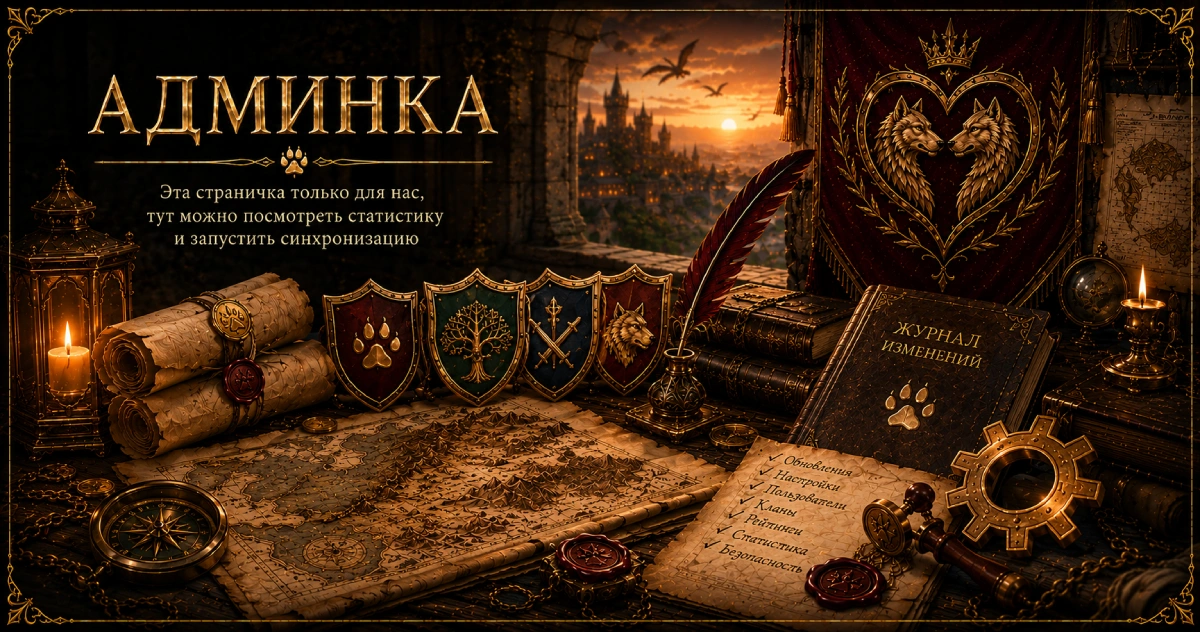
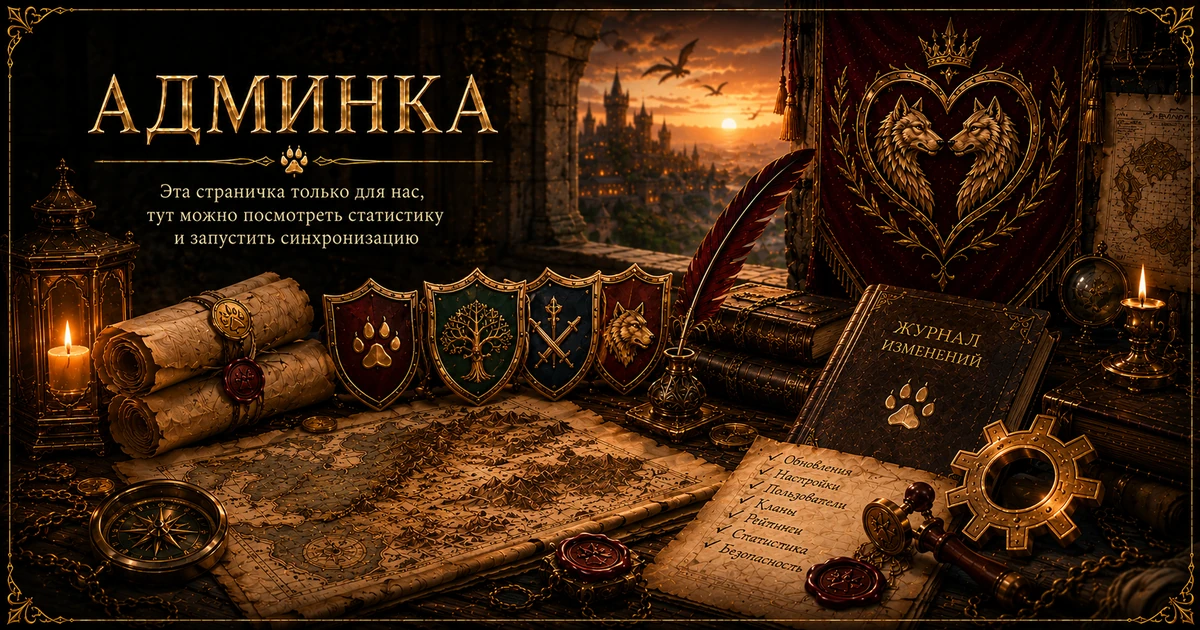
Add files via upload

diff --git a/src/app/couples/CouplesClient.tsx b/src/app/couples/CouplesClient.tsx
@@ -1,13 +1,214 @@
 "use client";
-import { useMemo, useState } from "react";
+
+import Image from "next/image";
 import Link from "next/link";
+import { useMemo, useState } from "react";
 import styles from "../collection-pages.module.css";
-type Player={cuid:string;nick:string;level?:number;clanId?:string;clanName?:string;profileUrl?:string;marriagePartner?:string;marriageSince?:string};
-type Couple={a:Player;b?:Player;partnerName:string;since:string};
-export default function CouplesClient({players,smileCounts,itemCounts}:{players:Player[];smileCounts:Record<string,number>;itemCounts:Record<string,number>}){
- const [query,setQuery]=useState(""); const [sort,setSort]=useState<"date"|"names">("date");
- const couples=useMemo(()=>{const byName=new Map(players.map(p=>[p.nick.toLocaleLowerCase("ru"),p]));const used=new Set<string>();const list:Couple[]=[];for(const p of players){const partner=(p.marriagePartner||"").trim();if(!partner)continue;const other=byName.get(partner.toLocaleLowerCase("ru"));const key=[p.nick.toLocaleLowerCase("ru"),partner.toLocaleLowerCase("ru")].sort().join("|");if(used.has(key))continue;used.add(key);list.push({a:p,b:other,partnerName:other?.nick||partner,since:p.marriageSince||other?.marriageSince||""});}const q=query.trim().toLocaleLowerCase("ru");return list.filter(c=>!q||c.a.nick.toLocaleLowerCase("ru").includes(q)||c.partnerName.toLocaleLowerCase("ru").includes(q)).sort((x,y)=>sort==="names"?x.a.nick.localeCompare(y.a.nick,"ru"):(parseDate(x.since)-parseDate(y.since))||x.a.nick.localeCompare(y.a.nick,"ru"));},[players,query,sort]);
- return <main className={styles.page}><section className={styles.shell}><header className={styles.hero}><div className={styles.heroIcon}>💍</div><div><p className={styles.eyebrow}>Истории, которые начались в игре</p><h1>Семейные пары</h1><p>Кто с кем, с какой даты и какие коллекции успела собрать каждая пара.</p></div></header><div className={styles.stats}><span><b>{couples.length}</b> семейных пар</span><span>Данные берём прямо из профилей персонажей</span></div><div className={styles.controls}><input value={query} onChange={e=>setQuery(e.target.value)} placeholder="Найти кого-нибудь из пары…"/><div><button className={sort==="date"?styles.active:""} onClick={()=>setSort("date")}>Дольше вместе</button><button className={sort==="names"?styles.active:""} onClick={()=>setSort("names")}>По именам</button></div></div><div className={styles.coupleGrid}>{couples.map(c=><article className={styles.couple} key={`${c.a.nick}-${c.partnerName}`}><div className={styles.heart}>♥</div><div className={styles.people}><Person p={c.a} smiles={smileCounts[c.a.nick.toLocaleLowerCase("ru")]||0} items={itemCounts[c.a.nick.toLocaleLowerCase("ru")]||0}/><span className={styles.plus}>и</span><Person p={c.b||{cuid:"",nick:c.partnerName}} smiles={smileCounts[c.partnerName.toLocaleLowerCase("ru")]||0} items={itemCounts[c.partnerName.toLocaleLowerCase("ru")]||0}/></div><p className={styles.since}>{c.since?`Вместе с ${c.since}`:"Дата свадьбы пока не найдена"}</p></article>)}</div>{!couples.length&&<div className={styles.empty}>Семейные пары пока не найдены.</div>}</section></main>;
+
+type Player = {
+  cuid: string;
+  nick: string;
+  level?: number;
+  clanId?: string;
+  clanName?: string;
+  profileUrl?: string;
+  marriagePartner?: string;
+  marriageSince?: string;
+};
+
+type Couple = { a: Player; b?: Player; partnerName: string; since: string };
+
+export default function CouplesClient({
+  players,
+  smileCounts,
+  itemCounts,
+}: {
+  players: Player[];
+  smileCounts: Record<string, number>;
+  itemCounts: Record<string, number>;
+}) {
+  const [query, setQuery] = useState("");
+  const [sort, setSort] = useState<"date" | "names">("date");
+
+  const couples = useMemo(() => {
+    const byName = new Map(
+      players.map((player) => [player.nick.toLocaleLowerCase("ru"), player]),
+    );
+    const used = new Set<string>();
+    const list: Couple[] = [];
+
+    for (const player of players) {
+      const partner = (player.marriagePartner || "").trim();
+      if (!partner) continue;
+
+      const other = byName.get(partner.toLocaleLowerCase("ru"));
+      const key = [
+        player.nick.toLocaleLowerCase("ru"),
+        partner.toLocaleLowerCase("ru"),
+      ]
+        .sort()
+        .join("|");
+
+      if (used.has(key)) continue;
+      used.add(key);
+
+      list.push({
+        a: player,
+        b: other,
+        partnerName: other?.nick || partner,
+        since: player.marriageSince || other?.marriageSince || "",
+      });
+    }
+
+    const normalizedQuery = query.trim().toLocaleLowerCase("ru");
+
+    return list
+      .filter(
+        (couple) =>
+          !normalizedQuery ||
+          couple.a.nick.toLocaleLowerCase("ru").includes(normalizedQuery) ||
+          couple.partnerName.toLocaleLowerCase("ru").includes(normalizedQuery),
+      )
+      .sort((left, right) =>
+        sort === "names"
+          ? left.a.nick.localeCompare(right.a.nick, "ru")
+          : parseDate(left.since) - parseDate(right.since) ||
+            left.a.nick.localeCompare(right.a.nick, "ru"),
+      );
+  }, [players, query, sort]);
+
+  return (
+    <main className={styles.page}>
+      <section className={styles.shell}>
+        <header className={styles.hero}>
+          <div className={`${styles.heroIcon} ${styles.ringsIcon}`}>
+            <Image
+              src="/ui/couple-rings.svg"
+              width={76}
+              height={76}
+              alt="Два золотых обручальных кольца"
+              priority
+            />
+          </div>
+          <div>
+            <p className={styles.eyebrow}>Страничка про любовь :) ♥</p>
+            <h1>Семейные пары</h1>
+            <p>
+              Помните: счастье к свидетельству о браке не прилагается: всё
+              зависит только от вас :)
+            </p>
+          </div>
+        </header>
+
+        <div className={styles.stats}>
+          <span>
+            Семейных пар: <b>{couples.length}</b>
+          </span>
+        </div>
+
+        <div className={styles.controls}>
+          <input
+            value={query}
+            onChange={(event) => setQuery(event.target.value)}
+            placeholder="Найти кого-нибудь из пары…"
+          />
+          <div>
+            <button
+              className={sort === "date" ? styles.active : ""}
+              onClick={() => setSort("date")}
+            >
+              Дольше вместе
+            </button>
+            <button
+              className={sort === "names" ? styles.active : ""}
+              onClick={() => setSort("names")}
+            >
+              По именам
+            </button>
+          </div>
+        </div>
+
+        <div className={styles.coupleGrid}>
+          {couples.map((couple) => (
+            <article
+              className={styles.couple}
+              key={`${couple.a.nick}-${couple.partnerName}`}
+            >
+              <div className={styles.heart}>♥</div>
+              <div className={styles.people}>
+                <Person
+                  player={couple.a}
+                  smiles={
+                    smileCounts[couple.a.nick.toLocaleLowerCase("ru")] || 0
+                  }
+                  items={itemCounts[couple.a.nick.toLocaleLowerCase("ru")] || 0}
+                />
+                <span className={styles.plus}>♥</span>
+                <Person
+                  player={couple.b || { cuid: "", nick: couple.partnerName }}
+                  smiles={
+                    smileCounts[couple.partnerName.toLocaleLowerCase("ru")] || 0
+                  }
+                  items={
+                    itemCounts[couple.partnerName.toLocaleLowerCase("ru")] || 0
+                  }
+                />
+              </div>
+              <p className={styles.since}>
+                {couple.since
+                  ? `Вместе с ${couple.since}`
+                  : "Дата свадьбы пока не найдена"}
+              </p>
+            </article>
+          ))}
+        </div>
+
+        {!couples.length && (
+          <div className={styles.empty}>Семейные пары пока не найдены.</div>
+        )}
+      </section>
+    </main>
+  );
 }
-function parseDate(value:string){const m=value.match(/(\d{2})\.(\d{2})\.(\d{4})/);return m?new Date(+m[3],+m[2]-1,+m[1]).getTime():Number.MAX_SAFE_INTEGER;}
-function Person({p,smiles,items}:{p:Player;smiles:number;items:number}){return <div className={styles.person}><div className={styles.avatar}>{p.nick.charAt(0).toUpperCase()}</div><div><h2>{p.profileUrl?<a href={p.profileUrl} target="_blank" rel="noreferrer">{p.nick}</a>:p.nick} {p.level?<small>[{p.level}]</small>:null}</h2><p>{p.clanName||"Без клана"}</p><div className={styles.badges}><span>😊 {smiles}</span><Link href={`/personal-items?owner=${encodeURIComponent(p.nick)}`}>⚔ {items}</Link></div></div></div>}
+
+function parseDate(value: string) {
+  const match = value.match(/(\d{2})\.(\d{2})\.(\d{4})/);
+  return match
+    ? new Date(+match[3], +match[2] - 1, +match[1]).getTime()
+    : Number.MAX_SAFE_INTEGER;
+}
+
+function Person({
+  player,
+  smiles,
+  items,
+}: {
+  player: Player;
+  smiles: number;
+  items: number;
+}) {
+  return (
+    <div className={styles.person}>
+      <div className={styles.avatar}>{player.nick.charAt(0).toUpperCase()}</div>
+      <div className={styles.personBody}>
+        <h2>
+          {player.profileUrl ? (
+            <a href={player.profileUrl} target="_blank" rel="noreferrer">
+              {player.nick}
+            </a>
+          ) : (
+            player.nick
+          )}{" "}
+          {player.level ? <small>[{player.level}]</small> : null}
+        </h2>
+        <p>{player.clanName || "Без клана"}</p>
+        <div className={styles.badges}>
+          <span>😊 {smiles}</span>
+          <Link href={`/personal-items?owner=${encodeURIComponent(player.nick)}`}>
+            ⚔ {items}
+          </Link>
+        </div>
+      </div>
+    </div>
+  );
+}

diff --git a/src/app/collection-pages.module.css b/src/app/collection-pages.module.css
@@ -2,3 +2,4 @@
 .shell{width:min(1090px,100%);margin:auto;padding:28px;border:1px solid rgba(173,113,34,.38);border-radius:16px;background:rgba(5,7,7,.97)}
 .hero{display:flex;align-items:center;gap:22px;padding:24px;border:1px solid rgba(173,113,34,.48);border-radius:14px;background:radial-gradient(circle at 20% 30%,rgba(115,65,22,.28),transparent 42%),#080a09}.heroIcon{display:grid;width:92px;height:92px;flex:0 0 92px;place-items:center;border:1px solid rgba(205,144,55,.55);border-radius:50%;font-size:48px;background:#0c0d0c;box-shadow:0 0 28px rgba(177,112,27,.15)}.eyebrow,.mini{margin:0;color:#a98249;font-size:.7rem;font-weight:700;letter-spacing:.17em;text-transform:uppercase}.hero h1{margin:4px 0;color:#ecd4a6;font:400 clamp(2rem,5vw,3.4rem) Georgia,serif}.hero p:last-child{margin:0;color:#bda888}.stats{display:flex;flex-wrap:wrap;gap:12px;margin:18px 0}.stats span{padding:9px 13px;border:1px solid rgba(173,113,34,.32);border-radius:999px;color:#bda888;background:#090c0b}.stats b{color:#efd09a}.controls{display:flex;align-items:center;justify-content:space-between;gap:14px;margin:20px 0}.controls input{width:min(480px,100%);padding:12px 15px;border:1px solid rgba(173,113,34,.45);border-radius:10px;color:#ecd4a6;background:#080a09;outline:none}.controls>div{display:flex;gap:7px}.controls button{padding:9px 12px;border:1px solid rgba(173,113,34,.4);border-radius:999px;color:#bda888;background:#090c0b;cursor:pointer}.controls button.active,.controls button:hover{color:#f0d09a;border-color:#d69938;background:rgba(106,61,18,.28)}.groups{display:grid;gap:18px}.group,.couple{overflow:hidden;border:1px solid rgba(173,113,34,.4);border-radius:13px;background:#080b0a}.groupHead{display:flex;align-items:center;justify-content:space-between;gap:15px;padding:18px 20px;border-bottom:1px solid rgba(173,113,34,.28);background:linear-gradient(180deg,rgba(75,44,18,.2),transparent)}.groupHead h2{margin:5px 0 2px;color:#ecd4a6;font:400 1.7rem Georgia,serif}.groupHead h2 a,.person h2 a{color:inherit;text-decoration:none}.groupHead small,.person small{color:#a88c66;font-size:.65em}.groupHead p:last-child,.person p{margin:0;color:#9f8a6b}.groupHead>strong{color:#dda64d}.itemGrid{display:grid;grid-template-columns:repeat(5,minmax(0,1fr));gap:10px;padding:16px}.itemCard{display:flex;min-width:0;min-height:150px;padding:12px;align-items:center;flex-direction:column;justify-content:center;gap:10px;border:1px solid rgba(173,113,34,.25);border-radius:10px;color:#dfc38f;background:linear-gradient(145deg,#111310,#070908);text-align:center;text-decoration:none}.itemCard:hover{border-color:#d4993b;transform:translateY(-2px)}.itemCard img{width:86px;height:86px;object-fit:contain;image-rendering:auto}.itemFallback{font-size:45px}.itemCard span:last-child{font:400 .95rem/1.25 Georgia,serif}.coupleGrid{display:grid;grid-template-columns:repeat(2,minmax(0,1fr));gap:15px}.couple{position:relative;padding:20px}.heart{position:absolute;right:16px;top:10px;color:#8d2932;font-size:42px;opacity:.6}.people{display:grid;gap:15px}.plus{color:#a98249;font:italic 1.1rem Georgia,serif;text-align:center}.person{display:flex;align-items:center;gap:13px}.avatar{display:grid;width:52px;height:52px;flex:0 0 52px;place-items:center;border:1px solid rgba(205,144,55,.45);border-radius:50%;color:#e8c581;background:#11100d;font:700 1.3rem Georgia,serif}.person h2{margin:0 0 3px;color:#ecd4a6;font:400 1.3rem Georgia,serif}.badges{display:flex;gap:7px;margin-top:7px}.badges span,.badges a{padding:4px 8px;border:1px solid rgba(173,113,34,.3);border-radius:999px;color:#bfa57b;background:#0b0e0d;font-size:.76rem;text-decoration:none}.since{margin:18px 0 0;padding-top:13px;border-top:1px solid rgba(173,113,34,.25);color:#d6b67e;text-align:center}.empty{padding:50px 18px;border:1px solid rgba(173,113,34,.3);border-radius:13px;color:#a69273;text-align:center}.updated{color:#8e7b61;font-size:.78rem;text-align:center}
 @media(max-width:760px){.page{padding:0 0 40px}.shell{padding:10px 9px 25px;border:0;border-radius:0}.hero{padding:18px 12px;align-items:flex-start}.heroIcon{width:58px;height:58px;flex-basis:58px;font-size:30px}.hero h1{font-size:1.75rem}.hero p:last-child{font-size:.86rem}.controls{align-items:stretch;flex-direction:column}.controls>div{flex-wrap:wrap}.controls button{font-size:.75rem}.itemGrid{grid-template-columns:repeat(2,minmax(0,1fr));gap:7px;padding:9px}.itemCard{min-height:130px;padding:8px}.itemCard img{width:70px;height:70px}.groupHead{align-items:flex-start;padding:14px;flex-direction:column}.coupleGrid{grid-template-columns:1fr}.stats{gap:7px}.stats span{font-size:.75rem}}
+.ringsIcon{overflow:hidden}.ringsIcon img{width:76px;height:76px;object-fit:contain}.personBody{min-width:0}.person h2{overflow-wrap:anywhere}.plus{font-size:1.45rem;color:#b88436}

diff --git a/src/app/personal-items/PersonalItemsClient.tsx b/src/app/personal-items/PersonalItemsClient.tsx
@@ -23,8 +23,8 @@ export default function PersonalItemsClient({ data, directory }: { data: { updat
   }, [data.items, query, sort]);
   return <main className={styles.page}>
     <section className={styles.shell}>
-      <header className={styles.hero}><div className={styles.heroIcon}>⚔</div><div><p className={styles.eyebrow}>Уникальные сокровища Древнего Мира</p><h1>Именные вещи</h1><p>Все персональные предметы собраны не по страницам библиотеки, а по их владельцам.</p></div></header>
-      <div className={styles.stats}><span><b>{data.items.length}</b> вещей</span><span><b>{groups.length}</b> владельцев</span><span>Стоимость не показываем — она давно неактуальна</span></div>
+      <header className={styles.hero}><div className={styles.heroIcon}>⚔</div><div><p className={styles.eyebrow}>Уникальные картинки</p><h1>Именные вещи</h1><p>На этой страничке можно увидеть все персональные изображения на оружие и амуницию, что есть в игре.</p></div></header>
+      <div className={styles.stats}><span><b>{data.items.length}</b> вещей</span><span><b>{groups.length}</b> владельцев</span></div>
       <div className={styles.controls}><input value={query} onChange={(e)=>setQuery(e.target.value)} placeholder="Найти персонажа или вещь…"/><div><button className={sort==="count"?styles.active:""} onClick={()=>setSort("count")}>По количеству</button><button className={sort==="owner"?styles.active:""} onClick={()=>setSort("owner")}>По нику</button></div></div>
       {groups.length ? <div className={styles.groups}>{groups.map(([owner, items]) => { const p=directory[owner.toLocaleLowerCase("ru")]; return <article className={styles.group} key={owner} id={`owner-${encodeURIComponent(owner)}`}><div className={styles.groupHead}><div><p className={styles.mini}>Владелец коллекции</p><h2>{p?.profileUrl?<a href={p.profileUrl} target="_blank" rel="noreferrer">{owner}</a>:owner} <small>[{p?.level ?? items[0]?.ownerLevel ?? "?"}]</small></h2><p>{p?.clanName || "Без клана"}</p></div><strong>{items.length} {items.length===1?"вещь":"вещей"}</strong></div><div className={styles.itemGrid}>{items.map(item=><a className={styles.itemCard} href={item.itemUrl} target="_blank" rel="noreferrer" key={item.id}>{item.imageUrl?<img src={item.imageUrl} alt="" loading="lazy"/>:<span className={styles.itemFallback}>⚔</span>}<span>{item.name}</span></a>)}</div></article>})}</div>:<div className={styles.empty}>Именные вещи пока не загружены. После следующей синхронизации здесь появятся коллекции.</div>}
       {data.updatedAt && <p className={styles.updated}>Обновлено: {new Date(data.updatedAt).toLocaleString("ru-RU")}</p>}

diff --git a/src/app/links/page.tsx b/src/app/links/page.tsx
@@ -25,22 +25,6 @@ const usefulLinks = [
       "Посмотреть личные смайликовые коллекции: у кого сколько и какие :)",
   },
   {
-    href: "/personal-items",
-    icon: GiftIcon,
-    category: "Уникальные коллекции",
-    title: "Именные вещи",
-    description:
-      "Все уникальные вещи Древнего Мира, аккуратно собранные по их владельцам.",
-  },
-  {
-    href: "/couples",
-    icon: PlayersIcon,
-    category: "Любовь в Древнем Мире",
-    title: "Семейные пары",
-    description:
-      "Кто с кем состоит в браке, с какой даты и какие коллекции есть у пары.",
-  },
-  {
     href: "/hunter-board",
     icon: HunterBoardIcon,
     category: "Ни у кого такого не было! :)",
@@ -49,13 +33,13 @@ const usefulLinks = [
       "Удобный (я проверяла! :)) планшет для охоты: карта 4×4, выбираем зверя, записываем результаты поиска в трёх направлениях, очки считаются автоматически. Больше не нужно искать блокнотик и карандаш!",
   },
   {
-   href: "/dungeons",
-   icon: MapIcon,
-   category: "Карты и маршруты",
-   title: "Карты подземелий",
-   description:
-   "Сад Кошмаров, Малахитовый Рудник и Лес Теней — три карты в одном разделе.",
-   }, 
+    href: "/dungeons",
+    icon: MapIcon,
+    category: "Карты и маршруты",
+    title: "Карты подземелий",
+    description:
+      "Сад Кошмаров, Малахитовый Рудник и Лес Теней — три карты в одном разделе.",
+  },
   {
     href: "/ratings",
     icon: SmilesCollectionIcon,
@@ -71,6 +55,22 @@ const usefulLinks = [
     title: "Калькулятор и таблица опыта",
     description:
       "Узнай свой ап и посчитай, сколько осталось до следующего апа и нового уровня.",
+  },
+  {
+    href: "/personal-items",
+    icon: GiftIcon,
+    category: "Уникальные картинки",
+    title: "Именные вещи",
+    description:
+      "Все персональные изображения на оружие и амуницию, собранные по владельцам.",
+  },
+  {
+    href: "/couples",
+    icon: PlayersIcon,
+    category: "Страничка про любовь :)",
+    title: "Семейные пары",
+    description:
+      "Кто с кем состоит в браке, с какой даты и какие коллекции есть у пары.",
   },
 ];
 

diff --git a/src/app/admin/layout.tsx b/src/app/admin/layout.tsx
@@ -1,12 +1,19 @@
-import type { Metadata } from "next";
+import { createPageMetadata } from "@/lib/metadata";
 
-export const metadata: Metadata = {
-  title: 'Панель администратора',
-  description: 'Служебная панель управления сайтом клана die Wölfchen.',
-  alternates: { canonical: '/admin' },
+export const metadata = {
+  ...createPageMetadata({
+    title: "Админка — die Wölfchen",
+    description:
+      "Закрытая страница со статистикой сайта и запуском синхронизации данных.",
+    path: "/admin",
+    image: "/og/admin.webp",
+    imageAlt: "Административная панель сайта die Wölfchen",
+  }),
   robots: { index: false, follow: false },
 };
 
-export default function Layout({ children }: Readonly<{ children: React.ReactNode }>) {
+export default function Layout({
+  children,
+}: Readonly<{ children: React.ReactNode }>) {
   return children;
 }

diff --git a/scripts/parse-profile.ts b/scripts/parse-profile.ts
@@ -427,8 +427,14 @@ export function parseProfileHtml(
   // ── Marriage ────────────────────────────────
 
   const plainText = htmlToPlainText(html);
+  /*
+   * Имя супруга должно быть коротким фрагментом непосредственно перед
+   * уровнем в квадратных скобках. Ограничение длины не позволяет случайно
+   * захватить весь текст блока «О себе», если пользователь процитировал там
+   * похожую фразу.
+   */
   const marriageMatch =
-    /Персонаж\s+находится\s+в\s+законном\s+браке\s+с\s+(.+?)\[\d+\]\s+[сc]\s+(\d{2}\.\d{2}\.\d{4})/i.exec(
+    /Персонаж\s+находится\s+в\s+законном\s+браке\s+с\s+([^\[]]{1,80}?)\s*\[\d+\]\s+[сc]\s+(\d{2}\.\d{2}\.\d{4})/i.exec(
       plainText
     );
 

diff --git a/src/app/personal-items/layout.tsx b/src/app/personal-items/layout.tsx
@@ -1,8 +1,16 @@
 import { createPageMetadata } from "@/lib/metadata";
+
 export const metadata = createPageMetadata({
   title: "Именные вещи игроков «Древнего Мира» (DM)",
-  description: "Уникальные именные вещи игроков Древнего Мира, собранные по владельцам.",
+  description:
+    "Все персональные изображения на оружие и амуницию в игре Древний Мир, собранные по владельцам.",
   path: "/personal-items",
-  image: "/og/ratings.webp",
+  image: "/og/personal-items.webp",
+  imageAlt: "Именные вещи игроков Древнего Мира",
 });
-export default function Layout({ children }: Readonly<{ children: React.ReactNode }>) { return children; }
+
+export default function Layout({
+  children,
+}: Readonly<{ children: React.ReactNode }>) {
+  return children;
+}

diff --git a/src/app/couples/layout.tsx b/src/app/couples/layout.tsx
@@ -1,8 +1,16 @@
 import { createPageMetadata } from "@/lib/metadata";
+
 export const metadata = createPageMetadata({
   title: "Семейные пары «Древнего Мира» (DM)",
-  description: "Семейные пары игроков Древнего Мира, даты свадеб, кланы и коллекции.",
+  description:
+    "Семейные пары игроков Древнего Мира: супруги, даты свадеб и коллекции каждого персонажа.",
   path: "/couples",
-  image: "/og/ratings.webp",
+  image: "/og/couples.webp",
+  imageAlt: "Семейные пары игроков Древнего Мира",
 });
-export default function Layout({ children }: Readonly<{ children: React.ReactNode }>) { return children; }
+
+export default function Layout({
+  children,
+}: Readonly<{ children: React.ReactNode }>) {
+  return children;
+}
